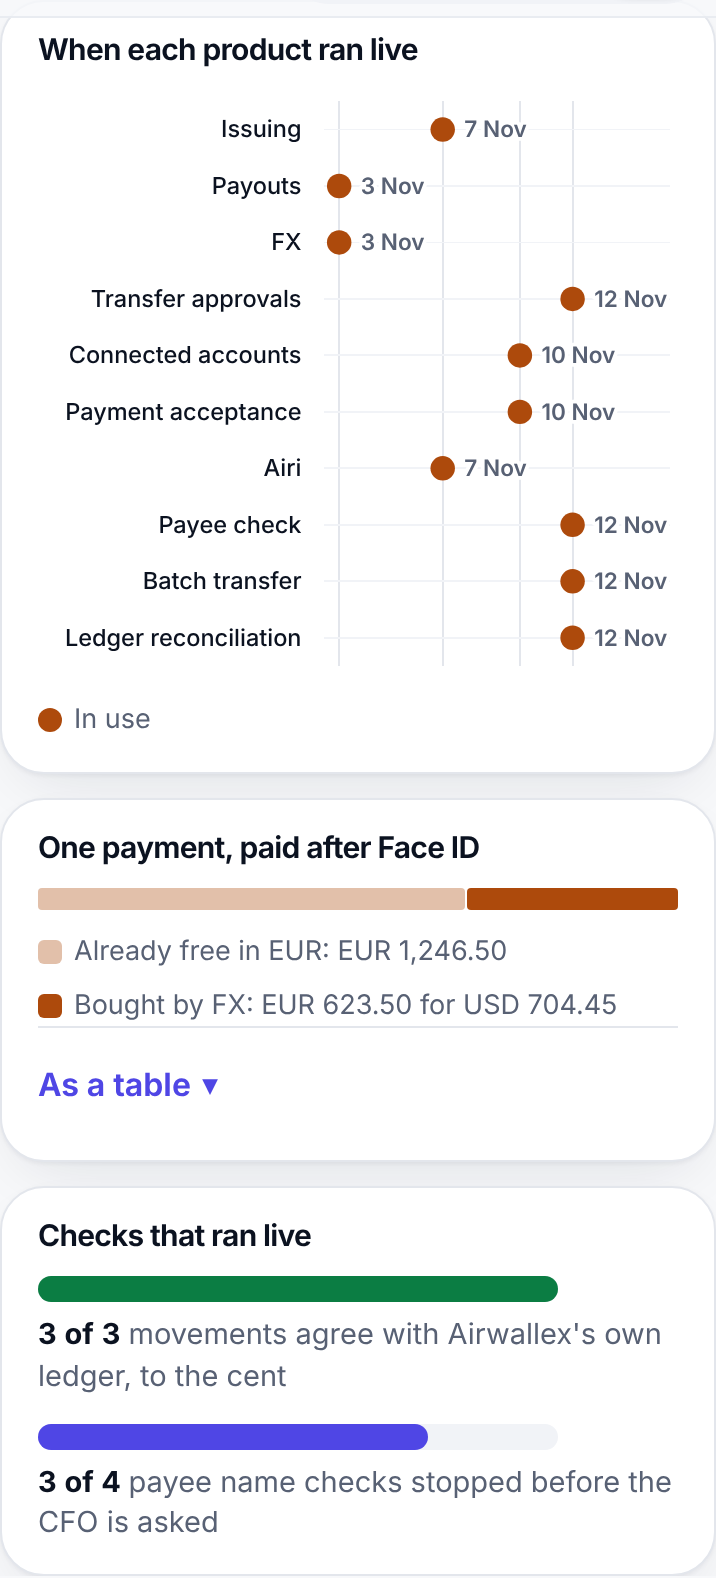
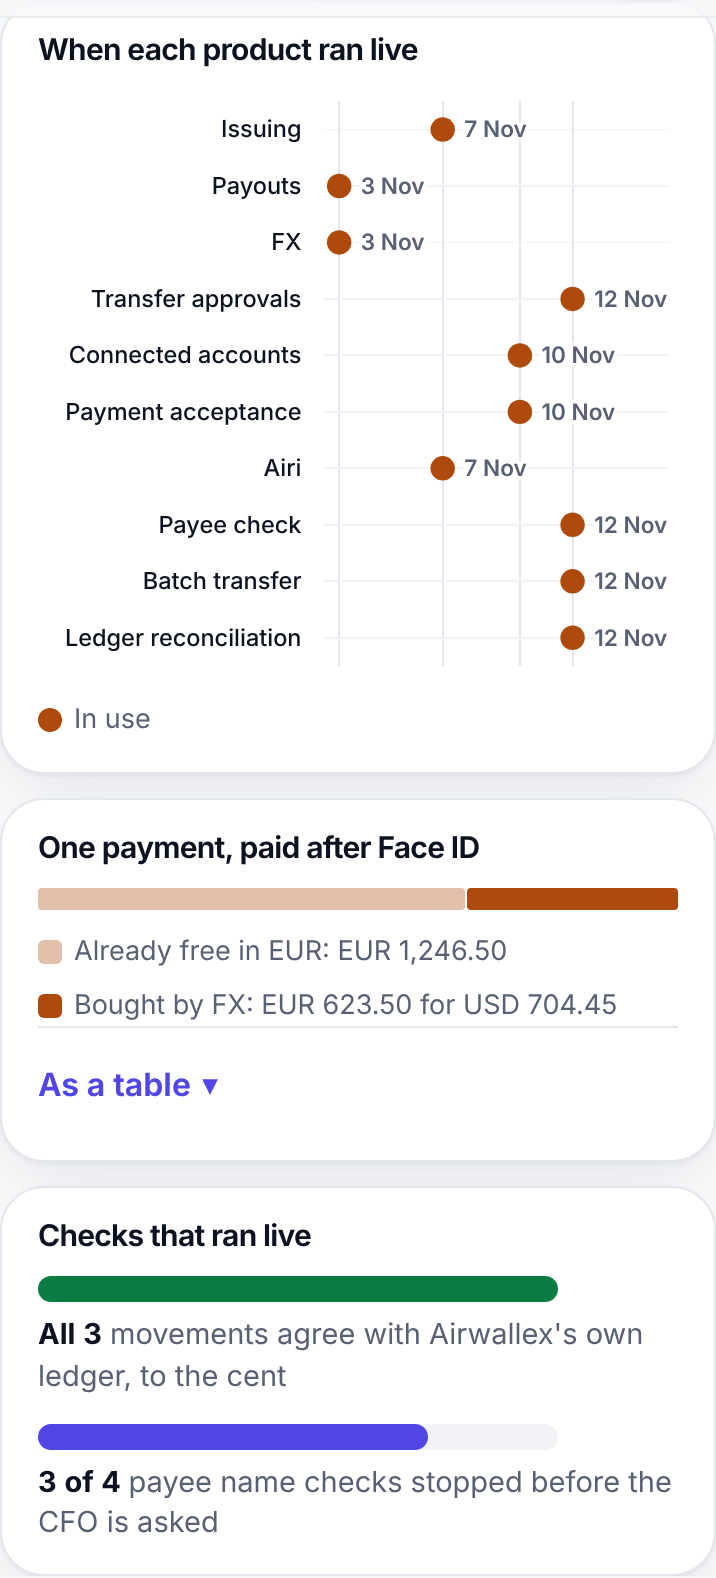
/airwallex: no N/N fraction: "All 3 movements agree", "All 3" on the ledger card, "All 3 cards match the CFO policy"
Standing rule (13 Nov): a count of a whole reads "All N" (countOf in src/redesign/ui.ts); an outcome count such as
"3 of 4 payee name checks stopped" stays. Used by the "Checks that ran live" meter, the Ledger reconciliation card
and the cards against the CFO policy (Airwallex read back, on /airwallex and /proof). The checks badges of awx-1 and
both Airi runs already read "Every check passes" on main (#275) and are left as they are. Pins updated; screenshots
refreshed.

Claude-Session: https://claude.ai/code/session_017bq3BxeNez5ubVbvXAi5Bv

Changed region(s): [[0.0615, 0.8384, 0.9218, 0.8695]]

diff --git a/src/redesign/airwallexVisual.ts b/src/redesign/airwallexVisual.ts
@@ -17,7 +17,7 @@
 import { readFileSync } from "node:fs";
 import { AWX_RUN_FILE } from "./awxRun.js";
 import type { ProductTile } from "./airwallexProducts.js";
-import { esc, icon } from "./ui.js";
+import { countOf, esc, icon } from "./ui.js";
 
 const read = (file: string): string | null => { try { return readFileSync(new URL(`../../${file}`, import.meta.url), "utf8"); } catch { return null; } };
 const dayShort = (iso: string) => new Intl.DateTimeFormat("en-GB", { day: "numeric", month: "short", timeZone: "UTC" }).format(new Date(iso));
@@ -150,13 +150,13 @@ export interface Meter { done: number; of: number; words: string; tone: "ok" | "
 /** A meter: a thin bar, its count in words beside it. */
 export function meterHtml(m: Meter): string {
   const W = 200, H = 10, w = m.of ? Math.round((m.done / m.of) * W) : 0;
-  return `<div class="awm2"><svg viewBox="0 0 ${W} ${H}" aria-hidden="true"><rect class="bg" x="0" y="0" width="${W}" height="${H}" rx="5"/><rect class="${m.tone}" x="0" y="0" width="${Math.max(w, 0)}" height="${H}" rx="5"/></svg><p><b>${m.done} of ${m.of}</b> ${esc(m.words)}</p></div>`;
+  return `<div class="awm2"><svg viewBox="0 0 ${W} ${H}" aria-hidden="true"><rect class="bg" x="0" y="0" width="${W}" height="${H}" rx="5"/><rect class="${m.tone}" x="0" y="0" width="${Math.max(w, 0)}" height="${H}" rx="5"/></svg><p><b>${countOf(m.done, m.of)}</b> ${esc(m.words)}</p></div>`;
 }
 
 /** The two meters, from the tiles' values ("3 of 3", "3 of 4"), which the tiles read from their records; in use or not
  *  yet switched on alike, so a product that is switched on keeps its meter. */
 export function metersHtml(tiles: ProductTile[]): string {
-  const of = (t: ProductTile | undefined) => { const m = /^(\d+) of (\d+)$/.exec(t?.value ?? ""); return m ? { done: Number(m[1]), of: Number(m[2]) } : null; };
+  const of = (t: ProductTile | undefined) => { const v = t?.value ?? "", all = /^All (\d+)$/.exec(v), m = /^(\d+) of (\d+)$/.exec(v); return all ? { done: Number(all[1]), of: Number(all[1]) } : m ? { done: Number(m[1]), of: Number(m[2]) } : null; };
   const ledger = of(tiles.find((t) => t.key === "ledger")), payee = of(tiles.find((t) => t.key === "payee-check"));
   const out = [
     ...(ledger ? [meterHtml({ ...ledger, words: "movements agree with Airwallex's own ledger, to the cent", tone: "ok" })] : []),

diff --git a/test/browser/pages.check.ts b/test/browser/pages.check.ts
@@ -1089,7 +1089,7 @@ for (const [w, h] of [[360, 780], [390, 844], [768, 1024], [1440, 900]] as const
       await page.evaluate(() => document.querySelectorAll("details.deep").forEach((d) => { (d as HTMLDetailsElement).open = true; }));
       const rb = await page.locator("#airwallex-readback + .awrb").innerText().catch(() => "");
       if (!/awx-1: a separate run · Airwallex sandbox, test money/.test(await page.locator("#awx-1").innerText().catch(() => ""))) fail(`/proof ${tag}: awx-1 missing under Airwallex read back`);
-      if (!/The hash the CFO signed travels with the payment\./.test(rb) || (rb.match(/\b[0-9a-f]{64}\b/g) ?? []).length !== 2 || !/Match: the same hash/.test(rb) || !/3 of 3 cards match the CFO policy/.test(rb)) fail(`/proof ${tag}: Airwallex read back missing or not matching`);
+      if (!/The hash the CFO signed travels with the payment\./.test(rb) || (rb.match(/\b[0-9a-f]{64}\b/g) ?? []).length !== 2 || !/Match: the same hash/.test(rb) || !/All 3 cards match the CFO policy/.test(rb)) fail(`/proof ${tag}: Airwallex read back missing or not matching`);
     }
     // The strongest proof first (Max's last round, item 2; the jury, 12 Nov): each partner card shows its strongest
     // claim as its one link, right under its name; no TAP remark under the figures (TAP is on /visa only, since 12 Nov).

diff --git a/src/redesign/airwallexProducts.ts b/src/redesign/airwallexProducts.ts
@@ -24,7 +24,7 @@ import type { Awx1Record } from "../awx/scenario.js";
 import { REPO_BLOB } from "./metalStory.js";
 import { liveRuns, type RunRow } from "./runs.js";
 import type { AgentRun, RunRecord } from "./run.js";
-import { esc, icon } from "./ui.js";
+import { countOf, esc, icon } from "./ui.js";
 import { VISUAL_CSS, visualsHtml } from "./airwallexVisual.js";
 
 // 13 Nov: the payee check, the batch transfer and the ledger reconciliation joined once the switch-on run showed them
@@ -446,7 +446,7 @@ export function ledgerTile(r: { audit: { ts: string; event: string; payload: { a
   const id = read0?.payload.items?.[0]?.id;
   if (!rec || rec.payload.checked === undefined || !id) return null;
   return {
-    key: "ledger", name: "Ledger reconciliation", value: `${rec.payload.agree} of ${rec.payload.checked}`,
+    key: "ledger", name: "Ledger reconciliation", value: countOf(Number(rec.payload.agree), Number(rec.payload.checked)),
     what: `movements agree with Airwallex's ledger to the cent.`, why: "Airwallex books each movement.",
     id, idLabel: "Airwallex financial transaction", href: `${REPO_BLOB}${FT_FILE.replace(/\.json$/, ".md")}`, iso: rec.ts, files: [FT_FILE],
   };

diff --git a/test/airwallex-readback.test.ts b/test/airwallex-readback.test.ts
@@ -139,11 +139,11 @@ describe("the pages", () => {
       expect(t).toContain(cards.file);
       expect(t).toMatch(/writ(ten|es) [^.]*from the CFO policy/);
     }
-    for (const html of [pages.proof!, pages.airwallex!]) expect(text(html)).toContain("3 of 3 cards match the CFO policy");
+    for (const html of [pages.proof!, pages.airwallex!]) expect(text(html)).toContain("All 3 cards match the CFO policy");
     // /airwallex (Max, 6 Nov): the hash block and one line at the top; every card's side by side in a collapsed fold.
     const controls = /<div class="card">((?:(?!<div class="card">)[\s\S])*?<details class="fold" id="controls">[\s\S]*?)<\/details><\/div>/.exec(pages.airwallex!)?.[1] ?? "";
     const fold = /<details class="fold" id="controls">[\s\S]*$/.exec(controls)?.[0] ?? "";
-    expect(text(controls.slice(0, controls.length - fold.length)).trim()).toBe("3 of 3 cards match the CFO policy");
+    expect(text(controls.slice(0, controls.length - fold.length)).trim()).toBe("All 3 cards match the CFO policy");
     expect((fold.match(/class="awcard"/g) ?? []).length).toBe(3);
     expect(fold).not.toMatch(/<details[^>]*\sopen/);
     const side = text(pages.airwallex!);

diff --git a/src/redesign/airwallexProof.ts b/src/redesign/airwallexProof.ts
@@ -13,7 +13,7 @@ import { CARD_ACTIVE_DAYS, MCC_WORDS } from "../config/policy.js";
 import { fromCents, toCents } from "../lib/money.js";
 import { cardControls } from "../policy/cards.js";
 import { cardRaiseOf, type RunRecord } from "./run.js";
-import { esc, icon } from "./ui.js";
+import { countOf, esc, icon } from "./ui.js";
 
 const RUNS = new URL("../../docs/runs/", import.meta.url);
 
@@ -175,7 +175,7 @@ ${badge(h.match, "Match: the same hash", "No match")}
 /** One line for all the cards: how many match the CFO policy on every control, counted from the rows. */
 export function cardsMatchBadge(rows: CardControlRow[]): string {
   const matched = rows.filter((r) => r.match).length;
-  return badge(matched === rows.length, `${matched} of ${rows.length} cards match the CFO policy`, `${rows.length - matched} of ${rows.length} cards differ from the CFO policy`);
+  return badge(matched === rows.length, `${countOf(matched, rows.length)} cards match the CFO policy`, `${rows.length - matched} of ${rows.length} cards differ from the CFO policy`);
 }
 
 /** /airwallex's fold of the cards, side by side with the CFO policy: Proof links here, and the page opens it on arrival. */

diff --git a/src/redesign/ui.ts b/src/redesign/ui.ts
@@ -35,6 +35,8 @@ export function icon(name: string, size = 20): string {
 /** The icons a page's script draws, by name, as markup strings (built here, never from data). */
 export const iconSet = (names: string[]) => Object.fromEntries(names.map((n) => [n, icon(n, 16)]));
 
+/** A count of a whole, in words: "All 3" when every one, else "3 of 4" (standing rule, 13 Nov: no N/N fraction on a page). */
+export const countOf = (n: number, of: number): string => (n === of ? `All ${of}` : `${n} of ${of}`);
 export const esc = (s: string) => s.replace(/[&<>"]/g, (c) => ({ "&": "&amp;", "<": "&lt;", ">": "&gt;", '"': "&quot;" })[c]!);
 
 /**
